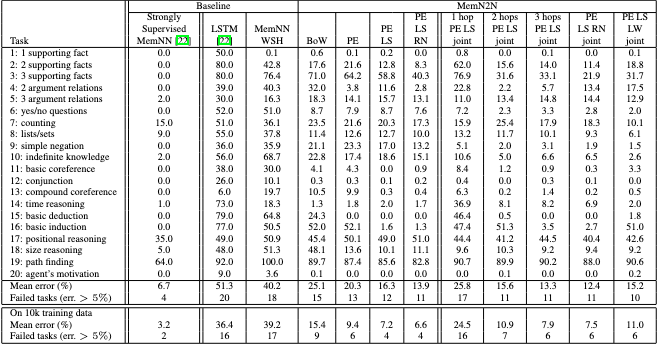
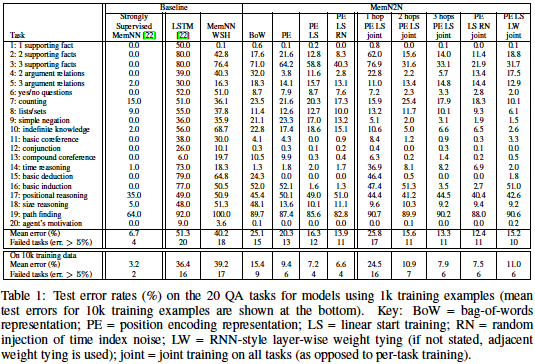
added missing section (#88)
* added missing section

* Delete sukhbaatar2015end-to-end_2_d.png

diff --git a/_summaries/sukhbaatar2015end-to-end_2.md b/_summaries/sukhbaatar2015end-to-end_2.md
@@ -14,6 +14,7 @@ score: 8 # How did you like this paper 0(dislike) to 10(love)
 
 ## Technical Implementation
 * The model accepts a discrete set of inputs (a story) along with a query, and outputs an answer.  
+    * These inputs are formed from a vocabulary $$V$$.
 ![Q&A](sukhbaatar2015end-to-end_2_a.png)  
 #### Model Architecture
 ![Architecture](sukhbaatar2015end-to-end_2_b.png) 
@@ -26,6 +27,7 @@ $$c_i = \text{Embed}_C(x_i)$$
 * The response vector is then calculated by summing the embedded inputs $$c_i$$ and weighting each with the probability vector from the previous step.  
 $$o = \sum_ip_ic_i$$  
 * The final predicton, or answer to the question, is then calculated by summing the response vector with the initially embedded query, passing it through a weight matrix, and then applying a softmax operation.  
+    * The answer is also a word in the vocabulary $$V$$.    
 $$\hat{a} = \text{softmax}(W(o + u))$$  
 * During training, utilizing stochastic gradient descent, the matrices $$\textbf{A, B, C}$$, and $$\textbf{W}$$ are learned by minimizing the standard cross-entropy loss between the predicted answer, and the correct answer.  
 
@@ -36,12 +38,19 @@ $$\hat{a} = \text{softmax}(W(o + u))$$
 $$\text{Adjacent: } A^{k+1} = C^k\qquad W^T=C^K\qquad B=A^1$$  
 $$\text{Layer-wise: } A^1=A^2=...=A^k\qquad C^1=C^2=...=C^k$$ 
 * Two sentence representations were explored: Bag of Words (BoW) which is agnostic to the position of words in a sentence, and a method they call Positional Encoding, which is sensitive to word position.  
-* Given that some stories and questions depend upon the sequence of events which took place, a Temporal Encoding scheme is presented where the memory vectors $$m_i$$ and the output vector are supplemented with a special matrix T which encodes temporal information.  
-	* Random noise, in the form of empty memories, is injected into the temporal matrix to help with regularization during training.  
+* The authors also explored a technique they termed Linear Start, where the softmax layer in the memory layers were removed, only leaving the softmax in the final prediction layer. Once the validation loss stopped decreasing, the softmax layers were reinserted.  
+* Given that some stories and questions depend upon the sequence of events which took place, a Temporal Encoding scheme is presented where the embedded memories $$m_i$$ and the output embeddings $$c_i$$ are supplemented with a special matrices $$\textbf{T}_A, \textbf{T}_C$$ which encode temporal information.  
+	* Random noise, in the form of empty memories, can be injected into $$\textbf{T}_A$$ to help with regularization during training.  
+    $$m_i = \sum_j Ax_{ij} + T_A(i)\qquad c_i = \sum_jCx_{ij} + T_C(i)$$  
 * Language modeling experiments were also performed where the model predicted the next word in a given sequence.  
+    * In these experiments, the query $$q$$ is not used, and was thus set as a constant unembedded vector.  
+    * The words of the input sequence, and the predicted word are all part of a vocabulary $$V$$. 
 
 ## Results  
-![Results](sukhbaatar2015end-to-end_2_c.png)   
+#### QA Tasks
+![Results](sukhbaatar2015end-to-end_2_c.png)  
+#### Language Modeling Tasks  
+![Results](sukhbaatar2015end-to-end_2_d.png)  
 
 ## TL;DR
 * End-to-End Memory Networks utilize explicit memory, recurrent attention, and multiple hops to achieve good performance on question answering and language modeling tasks.
